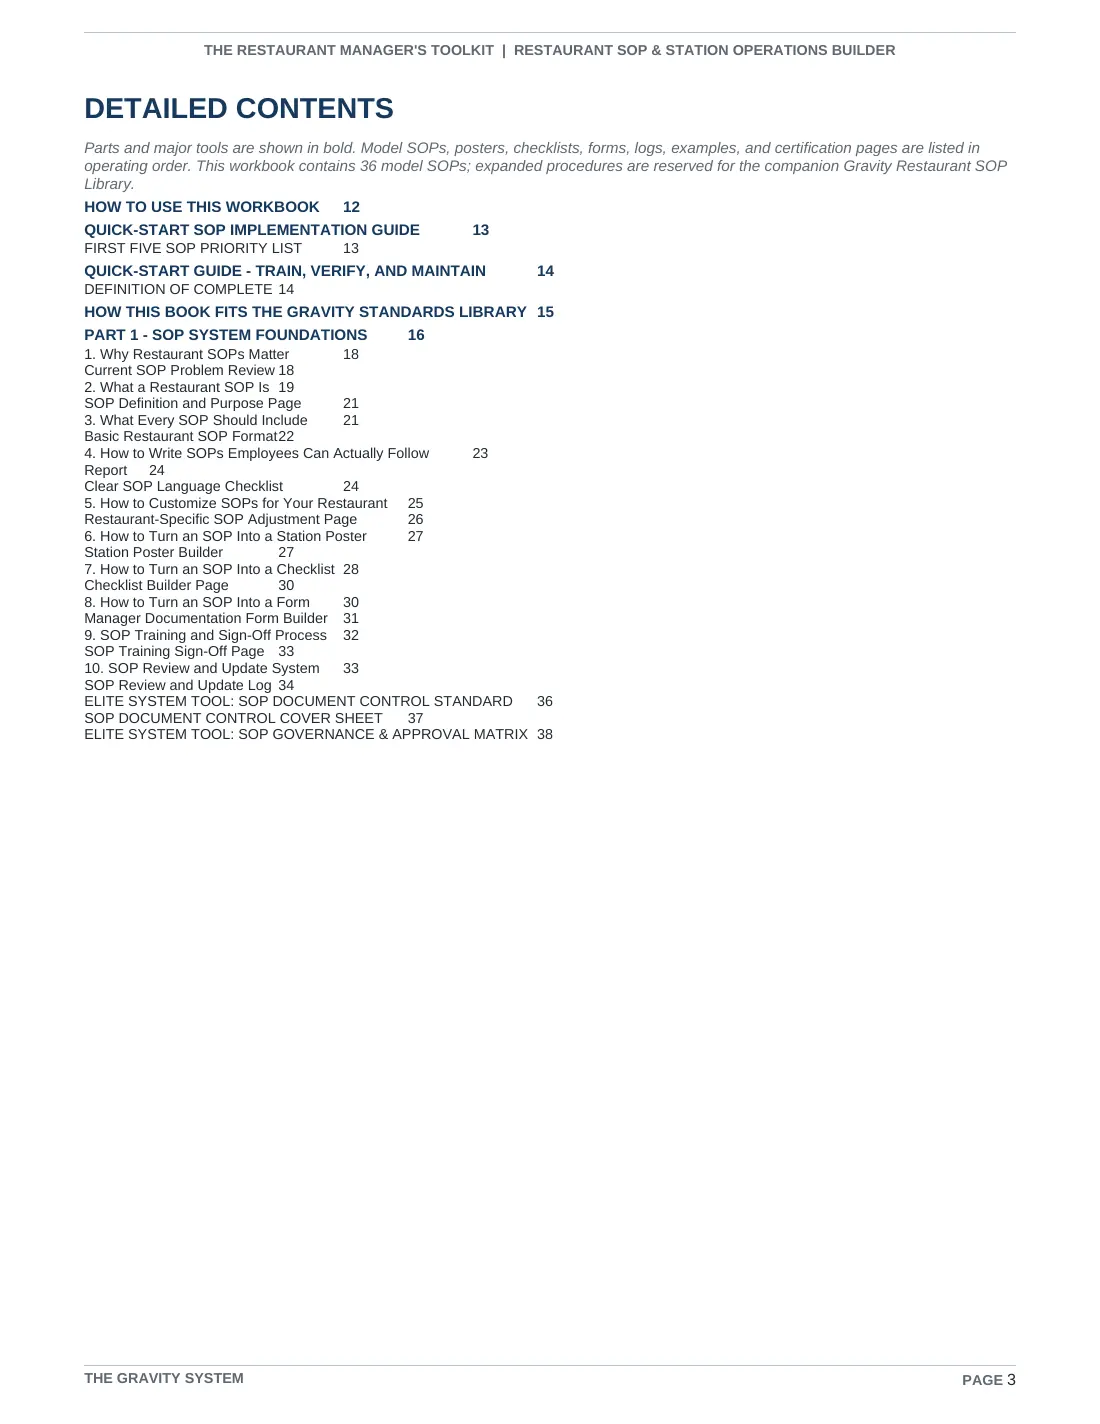
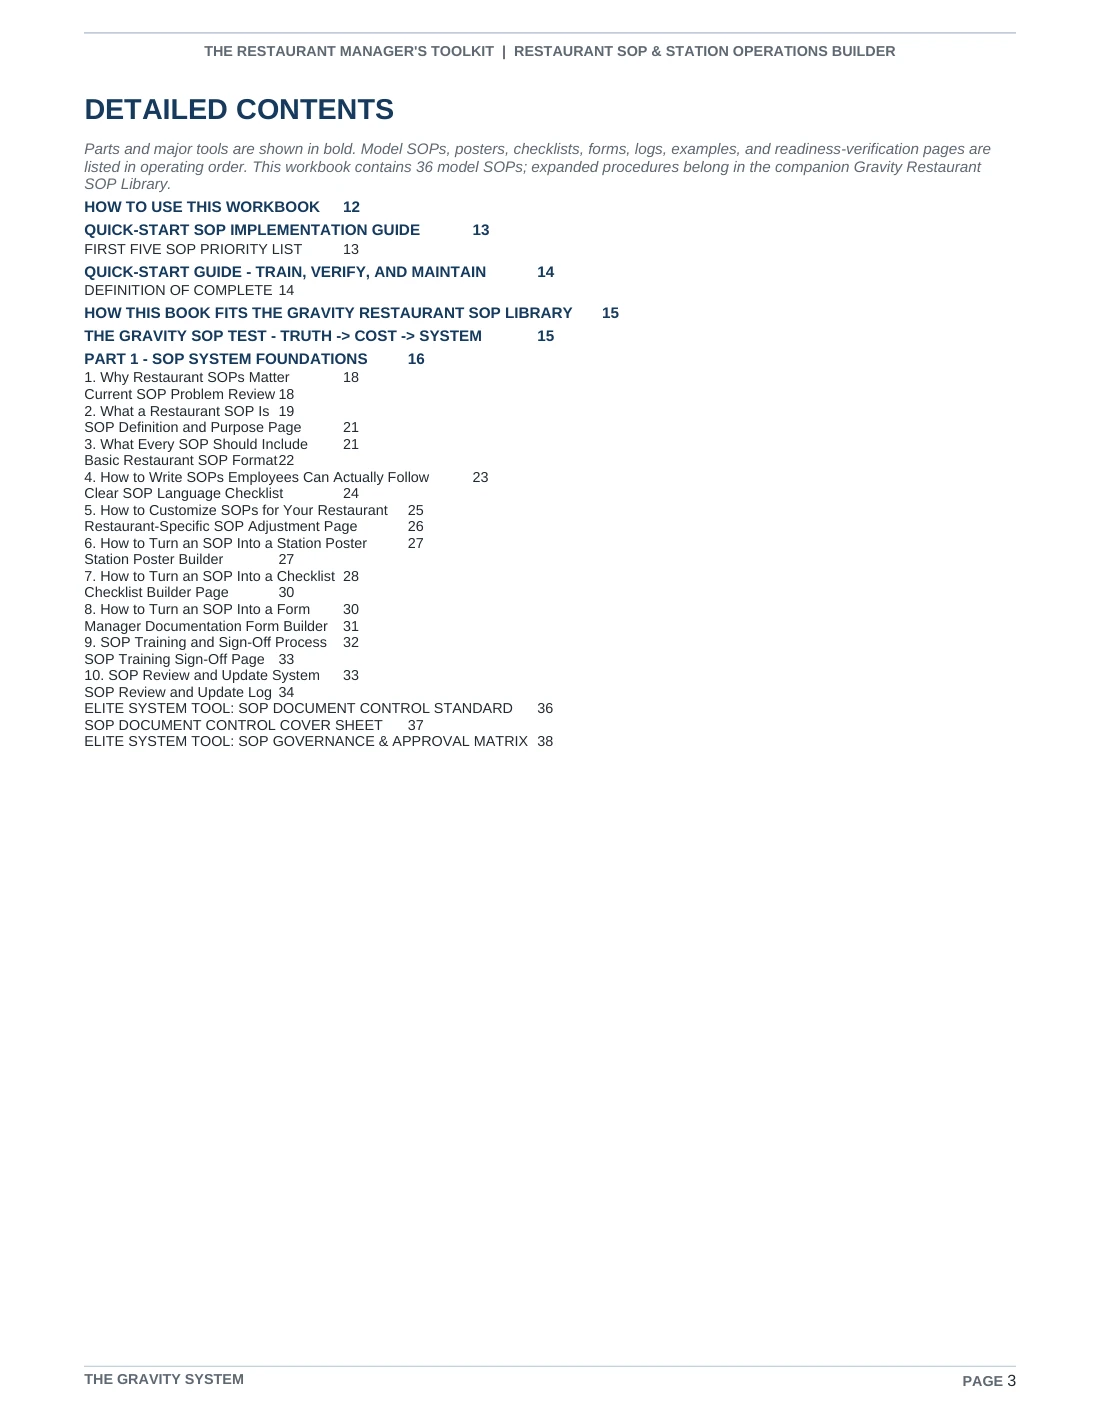
Refresh the Builder preview and clarify the Quiet Gravity contents sample

diff --git a/site/quiet-gravity.html b/site/quiet-gravity.html
@@ -39,7 +39,7 @@
 <a class="skip" href="#main">Skip to content</a>
 <div class="announcement"><span><strong>FOUNDING YEAR ACCESS:</strong> Completed digital resources at $0 through October 1, 2027. No credit card or subscription.</span><a class="announcement-why" href="/support#why-free">Access details</a></div>
 <header class="site-header"><div class="top-gold"></div><div class="container header-inner"><a class="brand" href="/"><img alt="" height="620" src="assets/images/gravity-system-mark.svg" width="620"/><span class="brand-system-copy"><strong>The Gravity System</strong><small>Restaurant Leadership &amp; Operations</small></span></a><button aria-controls="site-nav" aria-expanded="false" class="menu-toggle" data-menu-toggle="" type="button"><span>Menu</span></button><nav aria-label="Main navigation" class="nav" data-menu="" id="site-nav"><a href="/">Home</a><a href="/gravity-assist">Gravity Assist</a><a href="/operating-systems">15 Systems</a><a href="/gravity-aware">Gravity Aware</a><a href="/books">Books</a><a href="/book-reader">Book Reader</a><a href="/restaurant-management-forms-checklists">Forms &amp; Tools</a><a href="/gravity-fulfillment-center">Fulfillment Center</a><a href="/standards-library">SOP Library</a><a href="/gravity-sop-foundry">SOP Foundry</a><a href="/knowledge-center">Knowledge Center</a><a href="/help-center">Help Center</a><a href="/contact">Contact</a><a class="btn btn-red" href="/start-here">Start Here</a></nav></div></header>
-<main id="main"><section class="page-hero"><div class="container"><div class="breadcrumbs"><a href="/">Home</a> / <a href="/books">Books</a> / Quiet Gravity</div><div class="eyebrow">Complete - Available Now - Founding Year Access</div><h1>Quiet Gravity</h1><p>The Human Side of Restaurant Leadership</p></div></section><section class="section"><div class="container product-detail"><div class="product-cover"><img alt="Quiet Gravity restaurant leadership book cover" decoding="async" fetchpriority="high" height="1536" loading="eager" sizes="(max-width: 700px) 82vw, 420px" src="/.netlify/images?url=%2Fassets%2Fimages%2FQUIET_GRAVITY_SITE_COVER_ELITE_2026-08-23.webp&amp;w=480&amp;q=72" srcset="/.netlify/images?url=%2Fassets%2Fimages%2FQUIET_GRAVITY_SITE_COVER_ELITE_2026-08-23.webp&amp;w=240&amp;q=72 240w, /.netlify/images?url=%2Fassets%2Fimages%2FQUIET_GRAVITY_SITE_COVER_ELITE_2026-08-23.webp&amp;w=360&amp;q=72 360w, /.netlify/images?url=%2Fassets%2Fimages%2FQUIET_GRAVITY_SITE_COVER_ELITE_2026-08-23.webp&amp;w=480&amp;q=72 480w, /.netlify/images?url=%2Fassets%2Fimages%2FQUIET_GRAVITY_SITE_COVER_ELITE_2026-08-23.webp&amp;w=640&amp;q=72 640w" width="1024"/></div><div class="product-copy"><div class="eyebrow">The Gravity Restaurant Leadership System</div><h2>Read the sample here. Use the complete book when you are ready.</h2><p>A human-centered restaurant leadership book for owners, managers, trainers, and anyone trusted with people. It examines how authority feels from the employee side and how leaders build trust through responsibility, consistency, correction, and repair.</p><ul class="list-clean"><li>Authority and the employee experience</li><li>Pressure, correction, and emotional control</li><li>Trust, responsibility, and repair</li><li>Leadership standards that hold when the room is difficult</li></ul><p class="page-count">Thomas Butler - Thomas Monroe Books - 155 pages</p><div class="hero-actions"><a class="btn btn-primary" href="#look-inside">Look Inside</a><a class="btn btn-dark" download="" href="assets/downloads/quiet-gravity-gravity-elite-2026-09-11-155-pages.pdf">Download Full Book</a></div></div></div></section><section class="section"><div class="container"><div class="callout quiet-gravity-author-note"><div class="eyebrow">Why Thomas Butler recommends this book first</div><h2>Leadership is harder than it looks.</h2><p>Thomas began working in restaurants at 17. He recommends <em>Quiet Gravity</em> first because it contains leadership lessons he wishes he had at that age—guidance he believes would have helped him make better decisions much earlier.</p><blockquote>“I wish I had this book when I was 17. I would have made way better decisions.”</blockquote><p>One lesson at the center of the book is that authority should be used with judgment: restraint when power would serve ego, and responsible action when it can protect fairness, standards, or the good of the team.</p><a class="text-link" href="/about">Read about Thomas Butler and The Gravity System →</a></div></div></section><section class="section alt"><div class="container"><div class="content-card"><div class="eyebrow">Continue exploring</div><h2>Connect the book to practical Gravity guidance.</h2><div class="book-related-links"><a class="mini-btn primary" href="/restaurant-manager-checklist">Restaurant Manager Checklist</a><a class="mini-btn primary" href="/restaurant-manager-interview-questions">Manager Interview Questions</a></div></div></div></section><section class="section look-inside" id="look-inside"><div class="container"><div class="section-head"><div class="eyebrow">Read before downloading</div><h2>Look inside Quiet Gravity</h2><p>These are actual interior pages from the current 155-page Gravity Elite edition. Open any page for a larger view.</p></div><div class="look-inside-grid"><figure class="look-inside-page"><a aria-label="Open a larger view of Before You Lead Another Shift" href="assets/images/book-previews/quiet-gravity/page-005.webp"><img alt="Quiet Gravity sample page: Before You Lead Another Shift" decoding="async" height="1650" loading="lazy" sizes="(max-width: 700px) 82vw, 420px" src="/.netlify/images?url=%2Fassets%2Fimages%2Fbook-previews%2Fquiet-gravity%2Fpage-005.webp&amp;w=480&amp;q=72" srcset="/.netlify/images?url=%2Fassets%2Fimages%2Fbook-previews%2Fquiet-gravity%2Fpage-005.webp&amp;w=240&amp;q=72 240w, /.netlify/images?url=%2Fassets%2Fimages%2Fbook-previews%2Fquiet-gravity%2Fpage-005.webp&amp;w=360&amp;q=72 360w, /.netlify/images?url=%2Fassets%2Fimages%2Fbook-previews%2Fquiet-gravity%2Fpage-005.webp&amp;w=480&amp;q=72 480w, /.netlify/images?url=%2Fassets%2Fimages%2Fbook-previews%2Fquiet-gravity%2Fpage-005.webp&amp;w=640&amp;q=72 640w" width="1100"/></a><figcaption>Before You Lead Another Shift</figcaption></figure><figure class="look-inside-page"><a aria-label="Open a larger view of Complete contents" href="assets/images/book-previews/quiet-gravity/page-007.webp"><img alt="Quiet Gravity sample page: Complete contents" decoding="async" height="1650" loading="lazy" sizes="(max-width: 700px) 82vw, 420px" src="/.netlify/images?url=%2Fassets%2Fimages%2Fbook-previews%2Fquiet-gravity%2Fpage-007.webp&amp;w=480&amp;q=72" srcset="/.netlify/images?url=%2Fassets%2Fimages%2Fbook-previews%2Fquiet-gravity%2Fpage-007.webp&amp;w=240&amp;q=72 240w, /.netlify/images?url=%2Fassets%2Fimages%2Fbook-previews%2Fquiet-gravity%2Fpage-007.webp&amp;w=360&amp;q=72 360w, /.netlify/images?url=%2Fassets%2Fimages%2Fbook-previews%2Fquiet-gravity%2Fpage-007.webp&amp;w=480&amp;q=72 480w, /.netlify/images?url=%2Fassets%2Fimages%2Fbook-previews%2Fquiet-gravity%2Fpage-007.webp&amp;w=640&amp;q=72 640w" width="1100"/></a><figcaption>Complete contents</figcaption></figure><figure class="look-inside-page"><a aria-label="Open a larger view of What Your Authority Feels Like From Below" href="assets/images/book-previews/quiet-gravity/page-009.webp"><img alt="Quiet Gravity sample page: What Your Authority Feels Like From Below" decoding="async" height="1650" loading="lazy" sizes="(max-width: 700px) 82vw, 420px" src="/.netlify/images?url=%2Fassets%2Fimages%2Fbook-previews%2Fquiet-gravity%2Fpage-009.webp&amp;w=480&amp;q=72" srcset="/.netlify/images?url=%2Fassets%2Fimages%2Fbook-previews%2Fquiet-gravity%2Fpage-009.webp&amp;w=240&amp;q=72 240w, /.netlify/images?url=%2Fassets%2Fimages%2Fbook-previews%2Fquiet-gravity%2Fpage-009.webp&amp;w=360&amp;q=72 360w, /.netlify/images?url=%2Fassets%2Fimages%2Fbook-previews%2Fquiet-gravity%2Fpage-009.webp&amp;w=480&amp;q=72 480w, /.netlify/images?url=%2Fassets%2Fimages%2Fbook-previews%2Fquiet-gravity%2Fpage-009.webp&amp;w=640&amp;q=72 640w" width="1100"/></a><figcaption>What Your Authority Feels Like From Below</figcaption></figure><figure class="look-inside-page"><a aria-label="Open a larger view of Intent Is Not Impact" href="assets/images/book-previews/quiet-gravity/page-025.webp"><img alt="Quiet Gravity sample page: Intent Is Not Impact" decoding="async" height="1650" loading="lazy" sizes="(max-width: 700px) 82vw, 420px" src="/.netlify/images?url=%2Fassets%2Fimages%2Fbook-previews%2Fquiet-gravity%2Fpage-025.webp&amp;w=480&amp;q=72" srcset="/.netlify/images?url=%2Fassets%2Fimages%2Fbook-previews%2Fquiet-gravity%2Fpage-025.webp&amp;w=240&amp;q=72 240w, /.netlify/images?url=%2Fassets%2Fimages%2Fbook-previews%2Fquiet-gravity%2Fpage-025.webp&amp;w=360&amp;q=72 360w, /.netlify/images?url=%2Fassets%2Fimages%2Fbook-previews%2Fquiet-gravity%2Fpage-025.webp&amp;w=480&amp;q=72 480w, /.netlify/images?url=%2Fassets%2Fimages%2Fbook-previews%2Fquiet-gravity%2Fpage-025.webp&amp;w=640&amp;q=72 640w" width="1100"/></a><figcaption>Intent Is Not Impact</figcaption></figure></div><p class="look-inside-note">The complete book remains available through October 1, 2027 as part of the Founding Year.</p></div></section></main><section class="cta"><div class="container"><div class="eyebrow">Founding Year release</div><h2>Read the sample, then use the complete book.</h2><p>The full 155-page Gravity Elite edition is available through October 1, 2027.</p><a class="btn btn-primary" download="" href="assets/downloads/quiet-gravity-gravity-elite-2026-09-11-155-pages.pdf">Download Full Book</a></div></section><footer class="site-footer"><div class="container"><div class="footer-grid"><div><div class="publisher-lockup"><img alt="The Gravity System" class="gravity-footer-mark" height="620" src="assets/images/gravity-system-mark.svg" width="620"/><div><strong>The Gravity System</strong><small>Restaurant leadership and operations</small></div></div><p>A connected system of leadership books, operating standards, manager workbooks, and ready-to-customize procedures for stronger restaurants.</p><p class="publisher-mini"><strong>Books published by Thomas Monroe Books</strong><br/>Thomas Monroe Books publishes the books; The Gravity System is the customer-facing system and product brand.</p></div><div><h3>System</h3><a href="/system">The Gravity System</a><a href="/operating-systems">Fifteen Operating Systems</a><a href="/standards">Standards &amp; Accountability</a><a href="/toolkit">Toolkit</a><a href="/books">All Books</a><a href="/gravity-fulfillment-center">Fulfillment Center</a><a href="/standards-library">Gravity SOP Library</a><a href="/gravity-sop-foundry">SOP Foundry</a></div><div><h3>Explore</h3><a href="/start-here">Start Here</a><a href="/help-center">Help Center</a><a href="/books#by-need">Browse by Need</a><a href="/free-resources">Resources</a><a href="/register">Register / Download Access</a><a href="/contact">Contact</a><a href="/about">About Thomas Butler</a><a href="/review">Share Your Experience</a><a href="/knowledge-center">Restaurant Management Guides</a></div><div><h3>Policies</h3><a href="/privacy">Privacy Policy</a><a href="/terms">Terms</a><a href="/releases">What's New</a><a href="/support">Support</a><a href="/refund">Founding Year &amp; Donation Policy</a></div></div><div class="footer-bottom"><span>© 2026 Thomas Monroe Books. Publisher of The Gravity System. All rights reserved.</span><span>The Gravity System™ is the primary restaurant leadership and operations system.</span></div></div></footer>
+<main id="main"><section class="page-hero"><div class="container"><div class="breadcrumbs"><a href="/">Home</a> / <a href="/books">Books</a> / Quiet Gravity</div><div class="eyebrow">Complete - Available Now - Founding Year Access</div><h1>Quiet Gravity</h1><p>The Human Side of Restaurant Leadership</p></div></section><section class="section"><div class="container product-detail"><div class="product-cover"><img alt="Quiet Gravity restaurant leadership book cover" decoding="async" fetchpriority="high" height="1536" loading="eager" sizes="(max-width: 700px) 82vw, 420px" src="/.netlify/images?url=%2Fassets%2Fimages%2FQUIET_GRAVITY_SITE_COVER_ELITE_2026-08-23.webp&amp;w=480&amp;q=72" srcset="/.netlify/images?url=%2Fassets%2Fimages%2FQUIET_GRAVITY_SITE_COVER_ELITE_2026-08-23.webp&amp;w=240&amp;q=72 240w, /.netlify/images?url=%2Fassets%2Fimages%2FQUIET_GRAVITY_SITE_COVER_ELITE_2026-08-23.webp&amp;w=360&amp;q=72 360w, /.netlify/images?url=%2Fassets%2Fimages%2FQUIET_GRAVITY_SITE_COVER_ELITE_2026-08-23.webp&amp;w=480&amp;q=72 480w, /.netlify/images?url=%2Fassets%2Fimages%2FQUIET_GRAVITY_SITE_COVER_ELITE_2026-08-23.webp&amp;w=640&amp;q=72 640w" width="1024"/></div><div class="product-copy"><div class="eyebrow">The Gravity Restaurant Leadership System</div><h2>Read the sample here. Use the complete book when you are ready.</h2><p>A human-centered restaurant leadership book for owners, managers, trainers, and anyone trusted with people. It examines how authority feels from the employee side and how leaders build trust through responsibility, consistency, correction, and repair.</p><ul class="list-clean"><li>Authority and the employee experience</li><li>Pressure, correction, and emotional control</li><li>Trust, responsibility, and repair</li><li>Leadership standards that hold when the room is difficult</li></ul><p class="page-count">Thomas Butler - Thomas Monroe Books - 155 pages</p><div class="hero-actions"><a class="btn btn-primary" href="#look-inside">Look Inside</a><a class="btn btn-dark" download="" href="assets/downloads/quiet-gravity-gravity-elite-2026-09-11-155-pages.pdf">Download Full Book</a></div></div></div></section><section class="section"><div class="container"><div class="callout quiet-gravity-author-note"><div class="eyebrow">Why Thomas Butler recommends this book first</div><h2>Leadership is harder than it looks.</h2><p>Thomas began working in restaurants at 17. He recommends <em>Quiet Gravity</em> first because it contains leadership lessons he wishes he had at that age—guidance he believes would have helped him make better decisions much earlier.</p><blockquote>“I wish I had this book when I was 17. I would have made way better decisions.”</blockquote><p>One lesson at the center of the book is that authority should be used with judgment: restraint when power would serve ego, and responsible action when it can protect fairness, standards, or the good of the team.</p><a class="text-link" href="/about">Read about Thomas Butler and The Gravity System →</a></div></div></section><section class="section alt"><div class="container"><div class="content-card"><div class="eyebrow">Continue exploring</div><h2>Connect the book to practical Gravity guidance.</h2><div class="book-related-links"><a class="mini-btn primary" href="/restaurant-manager-checklist">Restaurant Manager Checklist</a><a class="mini-btn primary" href="/restaurant-manager-interview-questions">Manager Interview Questions</a></div></div></div></section><section class="section look-inside" id="look-inside"><div class="container"><div class="section-head"><div class="eyebrow">Read before downloading</div><h2>Look inside Quiet Gravity</h2><p>These are actual interior pages from the current 155-page Gravity Elite edition. Open any page for a larger view.</p></div><div class="look-inside-grid"><figure class="look-inside-page"><a aria-label="Open a larger view of Before You Lead Another Shift" href="assets/images/book-previews/quiet-gravity/page-005.webp"><img alt="Quiet Gravity sample page: Before You Lead Another Shift" decoding="async" height="1650" loading="lazy" sizes="(max-width: 700px) 82vw, 420px" src="/.netlify/images?url=%2Fassets%2Fimages%2Fbook-previews%2Fquiet-gravity%2Fpage-005.webp&amp;w=480&amp;q=72" srcset="/.netlify/images?url=%2Fassets%2Fimages%2Fbook-previews%2Fquiet-gravity%2Fpage-005.webp&amp;w=240&amp;q=72 240w, /.netlify/images?url=%2Fassets%2Fimages%2Fbook-previews%2Fquiet-gravity%2Fpage-005.webp&amp;w=360&amp;q=72 360w, /.netlify/images?url=%2Fassets%2Fimages%2Fbook-previews%2Fquiet-gravity%2Fpage-005.webp&amp;w=480&amp;q=72 480w, /.netlify/images?url=%2Fassets%2Fimages%2Fbook-previews%2Fquiet-gravity%2Fpage-005.webp&amp;w=640&amp;q=72 640w" width="1100"/></a><figcaption>Before You Lead Another Shift</figcaption></figure><figure class="look-inside-page"><a aria-label="Open a larger view of the first contents page" href="assets/images/book-previews/quiet-gravity/page-007.webp"><img alt="Quiet Gravity sample page: First contents page" decoding="async" height="1650" loading="lazy" sizes="(max-width: 700px) 82vw, 420px" src="/.netlify/images?url=%2Fassets%2Fimages%2Fbook-previews%2Fquiet-gravity%2Fpage-007.webp&amp;w=480&amp;q=72" srcset="/.netlify/images?url=%2Fassets%2Fimages%2Fbook-previews%2Fquiet-gravity%2Fpage-007.webp&amp;w=240&amp;q=72 240w, /.netlify/images?url=%2Fassets%2Fimages%2Fbook-previews%2Fquiet-gravity%2Fpage-007.webp&amp;w=360&amp;q=72 360w, /.netlify/images?url=%2Fassets%2Fimages%2Fbook-previews%2Fquiet-gravity%2Fpage-007.webp&amp;w=480&amp;q=72 480w, /.netlify/images?url=%2Fassets%2Fimages%2Fbook-previews%2Fquiet-gravity%2Fpage-007.webp&amp;w=640&amp;q=72 640w" width="1100"/></a><figcaption>First contents page</figcaption></figure><figure class="look-inside-page"><a aria-label="Open a larger view of What Your Authority Feels Like From Below" href="assets/images/book-previews/quiet-gravity/page-009.webp"><img alt="Quiet Gravity sample page: What Your Authority Feels Like From Below" decoding="async" height="1650" loading="lazy" sizes="(max-width: 700px) 82vw, 420px" src="/.netlify/images?url=%2Fassets%2Fimages%2Fbook-previews%2Fquiet-gravity%2Fpage-009.webp&amp;w=480&amp;q=72" srcset="/.netlify/images?url=%2Fassets%2Fimages%2Fbook-previews%2Fquiet-gravity%2Fpage-009.webp&amp;w=240&amp;q=72 240w, /.netlify/images?url=%2Fassets%2Fimages%2Fbook-previews%2Fquiet-gravity%2Fpage-009.webp&amp;w=360&amp;q=72 360w, /.netlify/images?url=%2Fassets%2Fimages%2Fbook-previews%2Fquiet-gravity%2Fpage-009.webp&amp;w=480&amp;q=72 480w, /.netlify/images?url=%2Fassets%2Fimages%2Fbook-previews%2Fquiet-gravity%2Fpage-009.webp&amp;w=640&amp;q=72 640w" width="1100"/></a><figcaption>What Your Authority Feels Like From Below</figcaption></figure><figure class="look-inside-page"><a aria-label="Open a larger view of Intent Is Not Impact" href="assets/images/book-previews/quiet-gravity/page-025.webp"><img alt="Quiet Gravity sample page: Intent Is Not Impact" decoding="async" height="1650" loading="lazy" sizes="(max-width: 700px) 82vw, 420px" src="/.netlify/images?url=%2Fassets%2Fimages%2Fbook-previews%2Fquiet-gravity%2Fpage-025.webp&amp;w=480&amp;q=72" srcset="/.netlify/images?url=%2Fassets%2Fimages%2Fbook-previews%2Fquiet-gravity%2Fpage-025.webp&amp;w=240&amp;q=72 240w, /.netlify/images?url=%2Fassets%2Fimages%2Fbook-previews%2Fquiet-gravity%2Fpage-025.webp&amp;w=360&amp;q=72 360w, /.netlify/images?url=%2Fassets%2Fimages%2Fbook-previews%2Fquiet-gravity%2Fpage-025.webp&amp;w=480&amp;q=72 480w, /.netlify/images?url=%2Fassets%2Fimages%2Fbook-previews%2Fquiet-gravity%2Fpage-025.webp&amp;w=640&amp;q=72 640w" width="1100"/></a><figcaption>Intent Is Not Impact</figcaption></figure></div><p class="look-inside-note">The complete book remains available through October 1, 2027 as part of the Founding Year.</p></div></section></main><section class="cta"><div class="container"><div class="eyebrow">Founding Year release</div><h2>Read the sample, then use the complete book.</h2><p>The full 155-page Gravity Elite edition is available through October 1, 2027.</p><a class="btn btn-primary" download="" href="assets/downloads/quiet-gravity-gravity-elite-2026-09-11-155-pages.pdf">Download Full Book</a></div></section><footer class="site-footer"><div class="container"><div class="footer-grid"><div><div class="publisher-lockup"><img alt="The Gravity System" class="gravity-footer-mark" height="620" src="assets/images/gravity-system-mark.svg" width="620"/><div><strong>The Gravity System</strong><small>Restaurant leadership and operations</small></div></div><p>A connected system of leadership books, operating standards, manager workbooks, and ready-to-customize procedures for stronger restaurants.</p><p class="publisher-mini"><strong>Books published by Thomas Monroe Books</strong><br/>Thomas Monroe Books publishes the books; The Gravity System is the customer-facing system and product brand.</p></div><div><h3>System</h3><a href="/system">The Gravity System</a><a href="/operating-systems">Fifteen Operating Systems</a><a href="/standards">Standards &amp; Accountability</a><a href="/toolkit">Toolkit</a><a href="/books">All Books</a><a href="/gravity-fulfillment-center">Fulfillment Center</a><a href="/standards-library">Gravity SOP Library</a><a href="/gravity-sop-foundry">SOP Foundry</a></div><div><h3>Explore</h3><a href="/start-here">Start Here</a><a href="/help-center">Help Center</a><a href="/books#by-need">Browse by Need</a><a href="/free-resources">Resources</a><a href="/register">Register / Download Access</a><a href="/contact">Contact</a><a href="/about">About Thomas Butler</a><a href="/review">Share Your Experience</a><a href="/knowledge-center">Restaurant Management Guides</a></div><div><h3>Policies</h3><a href="/privacy">Privacy Policy</a><a href="/terms">Terms</a><a href="/releases">What's New</a><a href="/support">Support</a><a href="/refund">Founding Year &amp; Donation Policy</a></div></div><div class="footer-bottom"><span>© 2026 Thomas Monroe Books. Publisher of The Gravity System. All rights reserved.</span><span>The Gravity System™ is the primary restaurant leadership and operations system.</span></div></div></footer>
 <div class="gravity-guide-root" id="gravity-guide-root">
 <button aria-controls="gravity-guide-panel" aria-expanded="false" aria-haspopup="dialog" class="gravity-guide-launcher" id="gravity-guide-launcher" type="button"><span class="gg-launcher-title">Ask Gravity Guide</span><span class="gg-launcher-subtitle">Find the right Gravity resource</span></button>
 <section aria-labelledby="gravity-guide-title" aria-modal="false" class="gravity-guide-panel" hidden="" id="gravity-guide-panel" role="dialog">

diff --git a/docs/audits/gravity-master-repair-register-2026-11-15.md b/docs/audits/gravity-master-repair-register-2026-11-15.md
@@ -3,6 +3,12 @@
 **Snapshot date:** November 22, 2026
 **Purpose:** One working queue for the Gravity site audit. New findings must be added here, deduplicated, prioritized, and given an evidence/status label before they are reported as another “new error.”
 
+## November 22 book preview audit
+
+**SRC-30 — book preview accuracy.** All 44 thumbnails and larger images on 11 public book pages opened. Each gallery's images corresponded to the correct book and appeared in increasing PDF page order. The 160 responsive variants with explicit width descriptors decoded at their declared widths. One image showed an earlier revision of the correct page. The Station Operations Builder contents preview used the older library name and omitted the Gravity SOP Test entry visible in the current PDF. Regenerated that one preview directly from page 3 of the linked PDF at the existing 1100 × 1424 dimensions. The Quiet Gravity contents continue onto page 8, whereas its single-page preview shows page 7. Updated the caption, alternative text, and accessible link name to identify it as the first contents page.
+
+**Source repair, pending next production release.** Verified the updated Builder preview contains the current SOP Test entry and the built Quiet Gravity page contains all three corrected labels. The 156-page build, 676 source hashes, internal link audit and 136 regression tests passed. Batch the repairs with the next Gravity deployment. After publication, compare the live Builder image with the repaired file, verify the responsive thumbnail and confirm the new Quiet Gravity labels.
+
 ## November 22 system package downloads and verification
 
 **SRC-29 — Customer Resources download directions.** The card for all 15 systems promised a master manifest, checksum and validation record. Its button landed above the release history, while the individual package links were farther down the page. Updated the card to describe the material provided and point directly to the clearly labeled system downloads table. The separate release-history link retains its original destination.
